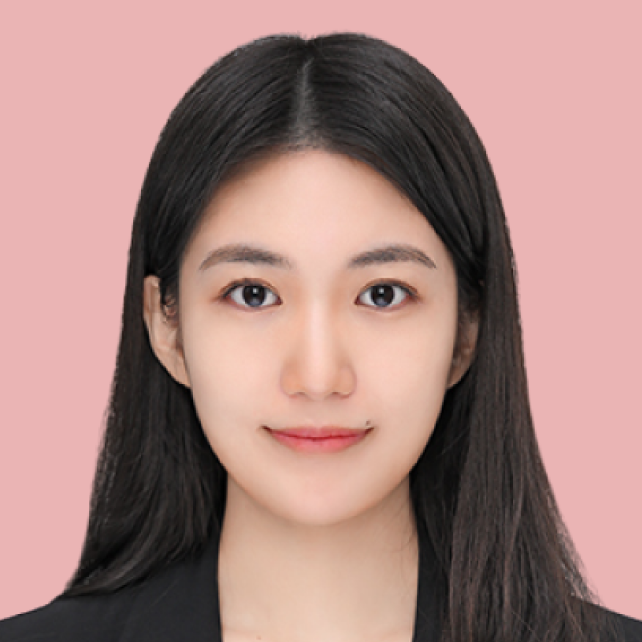
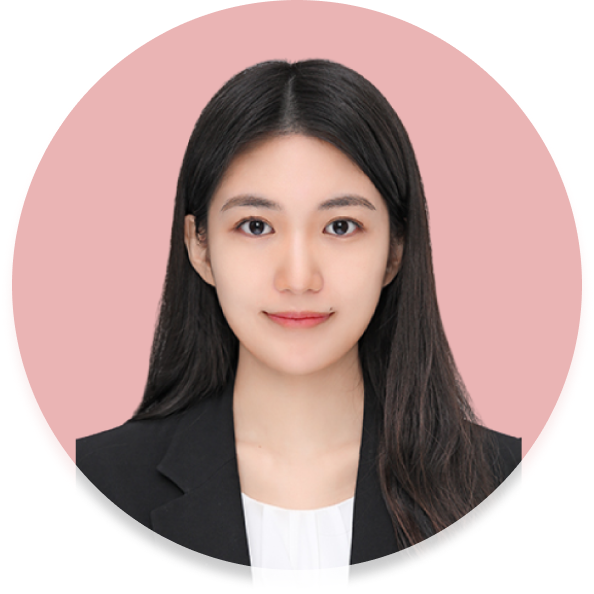
userImg 수정

diff --git a/src/Component/PopContents/index.js b/src/Component/PopContents/index.js
@@ -1,55 +1,59 @@
 import React from "react";
 import * as S from "./style.js";
 const PopContents = ({
-  name,
-  period,
-  intro,
-  skill,
-  responsibilities,
-  gitUrl,
-  demoUrl,
-  tag,
+    name,
+    period,
+    intro,
+    skill,
+    responsibilities,
+    gitUrl,
+    demoUrl,
+    tag,
 }) => {
-  return (
-    <S.Container>
-      <S.UserBox>
-        <S.UserImg path={process.env.PUBLIC_URL + "/images/user_yeji.jpg"} />
-        yejz0715
-      </S.UserBox>
-      <S.Wrapper>
-        <S.SubTitle> 💻 프로젝트명</S.SubTitle>
-        <S.Description>{name}</S.Description>
-        <S.SubTitle> 🙋♂ 소개</S.SubTitle>
-        <S.Description type="intro">{intro}</S.Description>
-        <S.SubTitle>📌 개발 스택</S.SubTitle>
-        {skill.map((item, index) => (
-          <S.Description key={index}>. {item}</S.Description>
-        ))}
-        <S.SubTitle>🔥 담당 업무</S.SubTitle>
-        {responsibilities.map((item, index) => (
-          <S.Description key={index}>
-            {index + 1}. {item}
-          </S.Description>
-        ))}
-        <S.Link>
-          {gitUrl.length > 0 && (
-            <a href={gitUrl} target="_blank" rel="noreferrer">
-              <S.Description type="link">@githubLink</S.Description>
-            </a>
-          )}
-          {demoUrl.length > 0 && (
-            <a href={demoUrl} target="_blank" rel="noreferrer">
-              <S.Description type="link">@demoLink</S.Description>
-            </a>
-          )}
-        </S.Link>
-        {tag.map((item, index) => (
-          <S.Tag key={index}># {item}</S.Tag>
-        ))}
+    return (
+        <S.Container>
+            <S.UserBox>
+                <S.UserImg
+                    path={process.env.PUBLIC_URL + "/images/user_img.png"}
+                />
+                yejz0715
+            </S.UserBox>
+            <S.Wrapper>
+                <S.SubTitle> 💻 프로젝트명</S.SubTitle>
+                <S.Description>{name}</S.Description>
+                <S.SubTitle> 🙋♂ 소개</S.SubTitle>
+                <S.Description type="intro">{intro}</S.Description>
+                <S.SubTitle>📌 개발 스택</S.SubTitle>
+                {skill.map((item, index) => (
+                    <S.Description key={index}>. {item}</S.Description>
+                ))}
+                <S.SubTitle>🔥 담당 업무</S.SubTitle>
+                {responsibilities.map((item, index) => (
+                    <S.Description key={index}>
+                        {index + 1}. {item}
+                    </S.Description>
+                ))}
+                <S.Link>
+                    {gitUrl.length > 0 && (
+                        <a href={gitUrl} target="_blank" rel="noreferrer">
+                            <S.Description type="link">
+                                @githubLink
+                            </S.Description>
+                        </a>
+                    )}
+                    {demoUrl.length > 0 && (
+                        <a href={demoUrl} target="_blank" rel="noreferrer">
+                            <S.Description type="link">@demoLink</S.Description>
+                        </a>
+                    )}
+                </S.Link>
+                {tag.map((item, index) => (
+                    <S.Tag key={index}># {item}</S.Tag>
+                ))}
 
-        <S.DevTime>{period}</S.DevTime>
-      </S.Wrapper>
-    </S.Container>
-  );
+                <S.DevTime>{period}</S.DevTime>
+            </S.Wrapper>
+        </S.Container>
+    );
 };
 export default PopContents;
